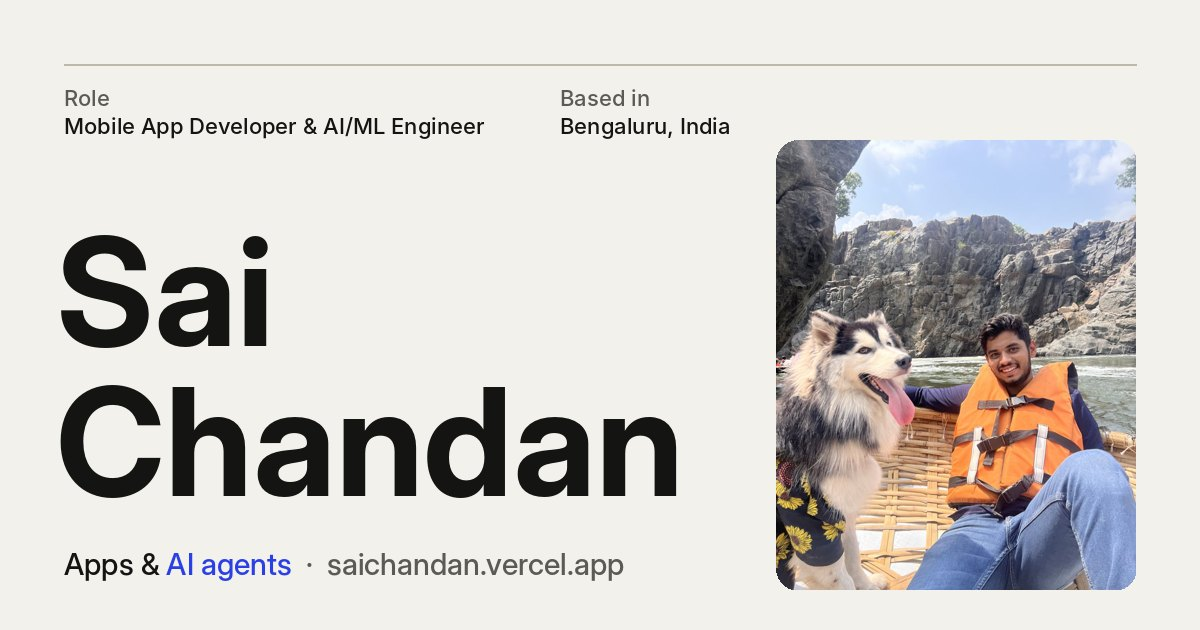
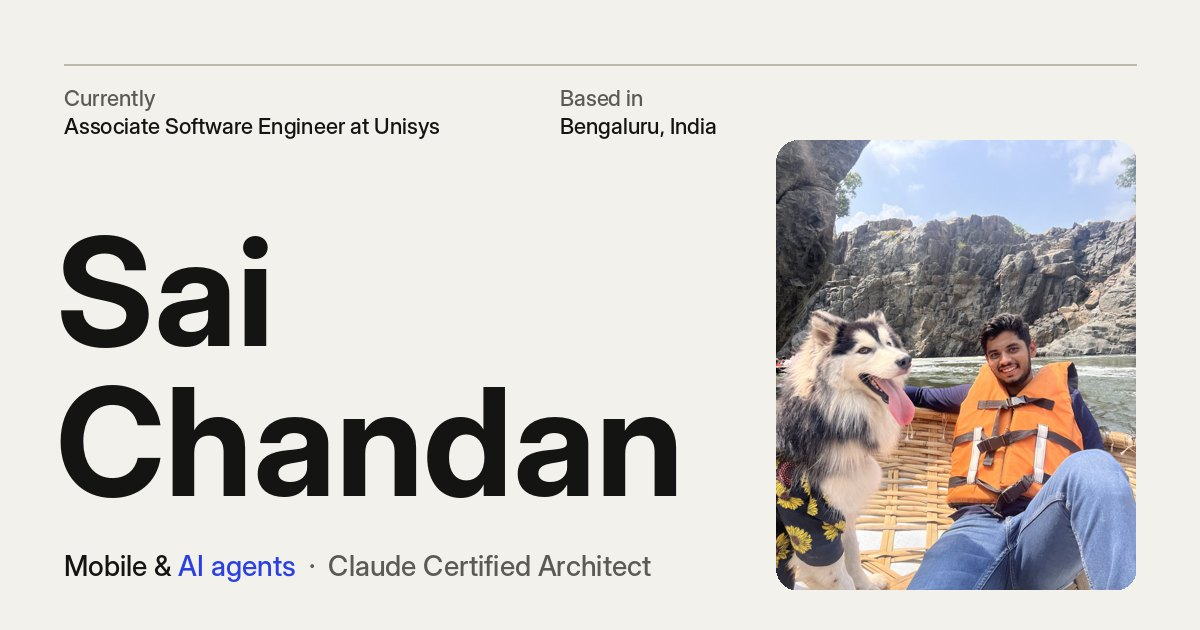
Add Experience section and sync profile with LinkedIn
- New Experience section: Unisys timeline (Student Technical Intern
  Oct 2024 – Aug 2025 → Associate Software Engineer Aug 2025 – present),
  education (DSU 2021–2025, Narayana Junior College 2019–2021) and
  certifications led by Anthropic's Claude Certified Architect –
  Foundations + Early Adopter
- Tenure ("1 yr 3 mos") is computed live, inclusive like LinkedIn
- Timeline line draws itself as you scroll; current role dot pulses;
  featured certification cards tilt in 3D
- Hero, About, meta description, OG image and JSON-LD (worksFor,
  hasCredential, alumniOf) updated with the current role
- Nav, command palette and section numbering include Experience

Claude-Session: https://claude.ai/code/session_01UsTJvYrfNbm7zovdagCP9G

diff --git a/index.html b/index.html
@@ -3,8 +3,8 @@
 <head>
   <meta charset="UTF-8" />
   <meta name="viewport" content="width=device-width, initial-scale=1, viewport-fit=cover" />
-  <title>Sai Chandan — Mobile App Developer &amp; AI/ML Engineer</title>
-  <meta name="description" content="Sanda Reddy Sai Chandan — mobile app developer and AI/ML engineer in Bengaluru, India. React Native + Expo apps, generative AI, autonomous agents and Salesforce Agentforce." />
+  <title>Sai Chandan — Software Engineer, Mobile &amp; AI</title>
+  <meta name="description" content="Sanda Reddy Sai Chandan — Associate Software Engineer at Unisys and Claude Certified Architect in Bengaluru, India. Mobile apps with React Native + Expo, generative AI, autonomous agents and Salesforce Agentforce." />
   <meta name="author" content="Sanda Reddy Sai Chandan" />
   <meta name="color-scheme" content="light dark" />
   <meta name="theme-color" content="#f3f1ec" media="(prefers-color-scheme: light)" />
@@ -13,7 +13,7 @@
 
   <meta property="og:type" content="website" />
   <meta property="og:url" content="https://saichandan.vercel.app/" />
-  <meta property="og:title" content="Sai Chandan — Mobile App Developer & AI/ML Engineer" />
+  <meta property="og:title" content="Sai Chandan — Software Engineer at Unisys · Mobile &amp; AI" />
   <meta property="og:description" content="Mobile apps, generative AI and autonomous agents. If I do it twice, an agent should do it the third time." />
   <meta property="og:image" content="https://saichandan.vercel.app/assets/images/og.jpg" />
   <meta property="og:image:alt" content="Sai Chandan — Mobile App Developer and AI/ML Engineer" />
@@ -51,11 +51,19 @@
     "alternateName": "Sai Chandan",
     "url": "https://saichandan.vercel.app/",
     "image": "https://saichandan.vercel.app/assets/images/chandan-800.jpg",
-    "jobTitle": "Mobile App Developer & AI/ML Engineer",
+    "jobTitle": "Associate Software Engineer",
+    "worksFor": { "@type": "Organization", "name": "Unisys" },
     "email": "mailto:sanda.rsc@icloud.com",
     "address": { "@type": "PostalAddress", "addressLocality": "Bengaluru", "addressCountry": "IN" },
-    "alumniOf": { "@type": "CollegeOrUniversity", "name": "Dayananda Sagar University" },
-    "knowsAbout": ["React Native", "Expo", "Generative AI", "Large Language Models", "AI Agents", "Salesforce Agentforce", "Python", "TypeScript"],
+    "alumniOf": [
+      { "@type": "CollegeOrUniversity", "name": "Dayananda Sagar University" },
+      { "@type": "EducationalOrganization", "name": "Narayana Junior College, Kadapa" }
+    ],
+    "hasCredential": [
+      { "@type": "EducationalOccupationalCredential", "name": "Claude Certified Architect – Foundations", "credentialCategory": "certification", "recognizedBy": { "@type": "Organization", "name": "Anthropic" } },
+      { "@type": "EducationalOccupationalCredential", "name": "Claude Certified Architect – Foundations Early Adopter", "credentialCategory": "certification", "recognizedBy": { "@type": "Organization", "name": "Anthropic" } }
+    ],
+    "knowsAbout": ["Anthropic Claude", "Claude Agent SDK", "React Native", "Expo", "Generative AI", "Large Language Models", "AI Agents", "Salesforce Agentforce", "Python", "TypeScript"],
     "sameAs": [
       "https://github.com/saichandan181",
       "https://linkedin.com/in/reddy-sai-chandan-851102300",
@@ -106,6 +114,7 @@
       <nav class="site-nav" id="site-nav" aria-label="Primary">
         <ul role="list">
           <li><a href="#about">About</a></li>
+          <li><a href="#experience">Experience</a></li>
           <li><a href="#expertise">Expertise</a></li>
           <li><a href="#work">Work</a></li>
           <li><a href="#now">Now</a></li>
@@ -138,9 +147,9 @@
     <section class="hero" aria-labelledby="hero-title">
       <div class="container hero-inner" data-hero>
         <dl class="hero-meta">
-          <div><dt>Role</dt><dd>Mobile App Developer<br />&amp; AI/ML Engineer</dd></div>
+          <div><dt>Currently</dt><dd>Associate Software Engineer<br />at Unisys</dd></div>
           <div><dt>Based in</dt><dd>Bengaluru, India<br /><time class="tnum" data-clock>IST</time></dd></div>
-          <div><dt>Focus</dt><dd>React Native · GenAI<br />Agents · Salesforce</dd></div>
+          <div><dt>Focus</dt><dd>Mobile · GenAI · Agents<br />Salesforce</dd></div>
           <div><dt>Status</dt><dd><span class="status-dot" aria-hidden="true"></span>Open to collaborations</dd></div>
         </dl>
 
@@ -152,8 +161,9 @@
               I build mobile apps and <em>AI agents</em> that do the boring part — so people don’t have to.
             </p>
             <p class="hero-lede">
-              Engineer specialising in AI &amp; ML. I ship cross-platform apps with React&nbsp;Native&nbsp;+&nbsp;Expo,
-              build generative-AI products, and wire autonomous agents into platforms like Salesforce.
+              Associate Software Engineer at Unisys and a Claude Certified Architect. I ship cross-platform apps
+              with React&nbsp;Native&nbsp;+&nbsp;Expo, build generative-AI products, and wire autonomous agents
+              into platforms like Salesforce.
             </p>
             <div class="hero-ctas">
               <a class="btn btn-primary" href="#work" data-magnetic>
@@ -201,8 +211,8 @@
 
         <div class="split-main">
           <p class="about-lead" data-highlight>
-            I’m Sanda Reddy Sai Chandan, a computer science engineer specialising in AI and ML.
-            I ship cross-platform mobile apps with React Native and Expo, build generative-AI products on
+            I’m Sanda Reddy Sai Chandan, an Associate Software Engineer at Unisys in Bengaluru with a degree
+            in computer science, specialising in AI and ML. I ship cross-platform mobile apps with React Native and Expo, build generative-AI products on
             multimodal models, and design multi-agent systems that plan, act and verify their own work.
             I also engineer on Salesforce — Agentforce, Apex and Flow — without blowing up governor limits.
           </p>
@@ -213,14 +223,6 @@
           </blockquote>
 
           <dl class="facts">
-            <div class="fact reveal">
-              <dt>Education</dt>
-              <dd><strong>Dayananda Sagar University</strong><br />B.E. Computer Science (AI &amp; ML), 2021 – 2025</dd>
-            </div>
-            <div class="fact reveal">
-              <dt>Certifications</dt>
-              <dd>ServiceNow Certified System Administrator<br />JavaScript — HackerRank<br />Machine Learning with Python — Great Learning</dd>
-            </div>
             <div class="fact reveal">
               <dt>Off the keyboard</dt>
               <dd>Badminton, cricket, travel and very good dogs.</dd>
@@ -238,11 +240,91 @@
       </div>
     </section>
 
+    <!-- ================= EXPERIENCE ================= -->
+    <section class="section section--alt" id="experience" aria-labelledby="experience-title">
+      <div class="container split">
+        <div class="split-side"><div class="split-side-inner">
+          <p class="section-index"><span aria-hidden="true">(02)</span> Experience</p>
+          <h2 id="experience-title" class="section-title" data-split-words>From intern to <em>engineer.</em></h2>
+          <p class="side-note reveal"><span data-tenure data-since="2024-10">2 yrs 1 mo</span> at Unisys — joined as a student technical intern, stayed on full-time.</p>
+        </div></div>
+
+        <div class="split-main">
+          <div class="xp-group">
+            <header class="xp-head reveal">
+              <h3>Unisys</h3>
+              <p>Bengaluru, Karnataka, India · <span data-tenure data-since="2024-10">2 yrs 1 mo</span></p>
+            </header>
+            <ol class="timeline" role="list" data-timeline>
+              <li class="role is-current reveal">
+                <span class="role-dot" aria-hidden="true"></span>
+                <p class="role-when"><time datetime="2025-08">Aug 2025</time> – Present<br /><span data-tenure data-since="2025-08">1 yr 3 mos</span></p>
+                <div class="role-body">
+                  <h4>Associate Software Engineer <span class="pill">Current</span></h4>
+                  <ul class="role-tags" role="list"><li>Full-time</li><li>Hybrid</li></ul>
+                </div>
+              </li>
+              <li class="role reveal">
+                <span class="role-dot" aria-hidden="true"></span>
+                <p class="role-when"><time datetime="2024-10">Oct 2024</time> – <time datetime="2025-08">Aug 2025</time><br /><span>11 mos</span></p>
+                <div class="role-body">
+                  <h4>Student Technical Intern</h4>
+                  <p>Cloud Application &amp; Infrastructure team — my first hands-on experience with enterprise cloud technologies.</p>
+                  <ul class="role-tags" role="list"><li>Internship</li><li>On-site</li></ul>
+                </div>
+              </li>
+            </ol>
+          </div>
+
+          <div class="xp-group">
+            <header class="xp-head reveal"><h3>Education</h3></header>
+            <ol class="timeline" role="list" data-timeline>
+              <li class="role reveal">
+                <span class="role-dot" aria-hidden="true"></span>
+                <p class="role-when"><time datetime="2021">2021</time> – <time datetime="2025">2025</time></p>
+                <div class="role-body">
+                  <h4>Dayananda Sagar University</h4>
+                  <p>B.E. Computer Science &amp; Engineering — Artificial Intelligence &amp; Machine Learning. Graduated 2025.</p>
+                </div>
+              </li>
+              <li class="role reveal">
+                <span class="role-dot" aria-hidden="true"></span>
+                <p class="role-when"><time datetime="2019-06">Jun 2019</time> – <time datetime="2021-05">May 2021</time></p>
+                <div class="role-body">
+                  <h4>Narayana Junior College, Kadapa</h4>
+                  <p>Intermediate — Mathematics, Physics &amp; Chemistry (MPC).</p>
+                </div>
+              </li>
+            </ol>
+          </div>
+
+          <div class="xp-group">
+            <header class="xp-head reveal"><h3>Certifications</h3></header>
+            <ul class="certs" role="list">
+              <li class="cert cert--feature reveal" data-tilt>
+                <p class="cert-issuer">Anthropic · Apr 2026</p>
+                <h4>Claude Certified Architect — Foundations</h4>
+                <p class="cert-id">Credential ID <span class="tnum">yrxyomizi79c</span></p>
+              </li>
+              <li class="cert cert--feature reveal" data-tilt>
+                <p class="cert-issuer">Anthropic · Apr 2026</p>
+                <h4>Claude Certified Architect — Foundations <em>Early Adopter</em></h4>
+                <p class="cert-id">Credential ID <span class="tnum">5xfrktd7ftnk</span></p>
+              </li>
+              <li class="cert reveal"><p class="cert-issuer">ServiceNow</p><h4>Certified System Administrator</h4></li>
+              <li class="cert reveal"><p class="cert-issuer">HackerRank</p><h4>JavaScript</h4></li>
+              <li class="cert reveal"><p class="cert-issuer">Great Learning</p><h4>Machine Learning with Python</h4></li>
+            </ul>
+          </div>
+        </div>
+      </div>
+    </section>
+
     <!-- ================= EXPERTISE ================= -->
-    <section class="section section--alt" id="expertise" aria-labelledby="expertise-title">
+    <section class="section" id="expertise" aria-labelledby="expertise-title">
       <div class="container">
         <header class="section-head">
-          <p class="section-index"><span aria-hidden="true">(02)</span> Expertise</p>
+          <p class="section-index"><span aria-hidden="true">(03)</span> Expertise</p>
           <h2 id="expertise-title" class="section-title" data-split-words>Four things I do <em>well.</em></h2>
         </header>
 
@@ -289,11 +371,11 @@
     </section>
 
     <!-- ================= WORK ================= -->
-    <section class="section" id="work" aria-labelledby="work-title">
+    <section class="section section--alt" id="work" aria-labelledby="work-title">
       <div class="container">
         <header class="section-head section-head--row">
           <div>
-            <p class="section-index"><span aria-hidden="true">(03)</span> Selected work</p>
+            <p class="section-index"><span aria-hidden="true">(04)</span> Selected work</p>
             <h2 id="work-title" class="section-title" data-split-words>Agents, AI apps and the <em>APIs</em> behind them.</h2>
           </div>
           <a class="link-underline reveal" href="https://github.com/saichandan181?tab=repositories" target="_blank" rel="noopener noreferrer">
@@ -461,10 +543,10 @@
     </section>
 
     <!-- ================= NOW ================= -->
-    <section class="section section--alt" id="now" aria-labelledby="now-title">
+    <section class="section" id="now" aria-labelledby="now-title">
       <div class="container split">
         <div class="split-side"><div class="split-side-inner">
-          <p class="section-index"><span aria-hidden="true">(04)</span> Now</p>
+          <p class="section-index"><span aria-hidden="true">(05)</span> Now</p>
           <h2 id="now-title" class="section-title" data-split-words>Currently <em>learning.</em></h2>
         </div></div>
 
@@ -490,9 +572,9 @@
     </section>
 
     <!-- ================= CONTACT ================= -->
-    <section class="section contact" id="contact" aria-labelledby="contact-title">
+    <section class="section section--alt contact" id="contact" aria-labelledby="contact-title">
       <div class="container">
-        <p class="section-index"><span aria-hidden="true">(05)</span> Contact</p>
+        <p class="section-index"><span aria-hidden="true">(06)</span> Contact</p>
         <h2 id="contact-title" class="contact-title" data-zoom>Let’s build something <em>worth automating.</em></h2>
 
         <div class="contact-grid">

diff --git a/assets/css/styles.css b/assets/css/styles.css
@@ -542,6 +542,79 @@ svg .fill { fill: currentColor; stroke: none; }
 .joke-out:empty { display: none; }
 @media (max-width: 560px) { .fact { grid-template-columns: 1fr; gap: 4px; } }
 
+/* ---------- Experience ---------- */
+.side-note { margin-top: 24px; max-width: 30ch; color: var(--muted); }
+.side-note span { color: var(--ink); font-weight: 600; }
+.xp-group + .xp-group { margin-top: clamp(56px, 7vw, 88px); }
+.xp-head {
+  display: flex; align-items: baseline; justify-content: space-between; gap: 8px 24px; flex-wrap: wrap;
+  padding-bottom: 18px;
+  border-bottom: 1px solid var(--line-strong);
+}
+.xp-head h3 { font-size: clamp(1.75rem, 1.3rem + 1.6vw, 2.6rem); letter-spacing: -0.045em; }
+.xp-head p { color: var(--muted); font-size: 0.9375rem; }
+
+/* vertical line that draws itself as you scroll (--tl: 0 → 1) */
+.timeline { position: relative; --tl: 1; }
+.timeline::before, .timeline::after {
+  content: ""; position: absolute; left: 5px; top: 34px; bottom: 34px; width: 1px;
+}
+.timeline::before { background: var(--line); }
+.timeline::after { background: var(--accent); transform-origin: top; transform: scaleY(var(--tl)); }
+.role {
+  position: relative;
+  display: grid;
+  grid-template-columns: minmax(150px, 0.8fr) minmax(0, 2fr);
+  gap: 8px 24px;
+  padding: 26px 0 26px 36px;
+  border-bottom: 1px solid var(--line);
+}
+.role-dot {
+  position: absolute; left: 0; top: 33px; z-index: 1;
+  width: 11px; height: 11px; border-radius: 50%;
+  background: var(--bg-alt); border: 2px solid var(--accent);
+}
+.role.is-current .role-dot { background: var(--accent); box-shadow: 0 0 0 0 color-mix(in srgb, var(--accent) 45%, transparent); animation: role-pulse 2.4s var(--ease) infinite; }
+@keyframes role-pulse { 70% { box-shadow: 0 0 0 9px color-mix(in srgb, var(--accent) 0%, transparent); } 100% { box-shadow: 0 0 0 0 transparent; } }
+.role-when { color: var(--muted); font-size: 0.9375rem; line-height: 1.5; padding-top: 4px; font-variant-numeric: tabular-nums; }
+.role-when time:first-child { color: var(--ink); font-weight: 500; }
+.role-body h4 { font-size: clamp(1.3rem, 1.1rem + 0.8vw, 1.75rem); letter-spacing: -0.035em; display: flex; align-items: center; gap: 12px; flex-wrap: wrap; }
+.role-body p { margin-top: 8px; color: var(--muted); max-width: 56ch; }
+.pill {
+  padding: 3px 10px; border-radius: 999px;
+  background: var(--accent); color: var(--on-accent);
+  font-size: 0.75rem; font-weight: 600; letter-spacing: 0;
+}
+.role-tags { display: flex; flex-wrap: wrap; gap: 6px; margin-top: 12px; }
+.role-tags li { padding: 3px 10px; border: 1px solid var(--line-strong); border-radius: 999px; font-size: 0.8125rem; color: var(--muted); }
+@media (max-width: 640px) { .role { grid-template-columns: 1fr; } }
+
+.certs { display: grid; grid-template-columns: repeat(2, minmax(0, 1fr)); gap: 12px; margin-top: 20px; }
+.cert {
+  display: flex; flex-direction: column; gap: 6px;
+  padding: 18px 20px;
+  border: 1px solid var(--line);
+  border-radius: var(--radius-sm, 12px);
+  background: var(--surface);
+}
+.cert h4 { font-size: 1.0625rem; font-weight: 600; letter-spacing: -0.015em; line-height: 1.3; }
+.cert h4 em { font-family: var(--font-serif); font-style: italic; font-weight: 400; font-size: 1.12em; color: var(--accent); }
+.cert-issuer { color: var(--muted); font-size: 0.8125rem; }
+.cert-id { margin-top: auto; padding-top: 8px; color: var(--muted); font-size: 0.75rem; }
+.cert-id span { font-family: var(--font-mono); color: var(--ink); }
+.cert--feature {
+  padding: 24px;
+  border-color: color-mix(in srgb, var(--accent) 40%, var(--line));
+  transform: perspective(900px) rotateX(var(--rx, 0deg)) rotateY(var(--ry, 0deg));
+  transition: transform 0.6s var(--ease), box-shadow 0.5s var(--ease), opacity 0.9s var(--ease);
+}
+.cert--feature.is-tilting { transition: transform 0.12s linear, box-shadow 0.5s var(--ease), opacity 0.9s var(--ease); }
+.cert--feature:hover { box-shadow: var(--shadow-lg); }
+.cert--feature .cert-issuer { color: var(--accent); font-weight: 600; }
+.cert--feature h4 { font-size: 1.25rem; }
+.motion-ok .cert--feature.reveal:not(.is-visible) { transform: translateY(28px); }
+@media (max-width: 560px) { .certs { grid-template-columns: 1fr; } }
+
 /* ---------- Expertise ---------- */
 .expertise {
   display: grid;
@@ -894,6 +967,7 @@ svg .fill { fill: currentColor; stroke: none; }
   .btn, .icon-btn, .exp-card article, .work-card, .palette, .contact-orb, .faq summary::after { border: 1px solid CanvasText; }
   .palette-option[aria-selected="true"] { outline: 2px solid Highlight; }
   .work-card::after, .portrait-glare { display: none; }
+  .cert, .pill { border: 1px solid CanvasText; }
 }
 
 /* ---------- Print ---------- */
@@ -907,3 +981,6 @@ svg .fill { fill: currentColor; stroke: none; }
   .section { padding-block: 32px; }
   a[href^="http"]::after { content: " (" attr(href) ")"; font-size: 0.8em; }
 }
+
+/* keep cert tilt working after its reveal completes */
+.motion-ok .cert--feature.reveal.is-visible { transform: perspective(900px) rotateX(var(--rx, 0deg)) rotateY(var(--ry, 0deg)); }

diff --git a/assets/js/main.js b/assets/js/main.js
@@ -313,6 +313,7 @@
   const rises = $$("[data-rise]");
   const zoomEl = $("[data-zoom]");
   const workItems = $$(".work-item");
+  const timelines = $$("[data-timeline]");
   const stickyMQ = window.matchMedia("(min-width: 901px)");
 
   const clearScrollFx = () => {
@@ -321,6 +322,7 @@
     workCards.forEach((c) => { c.style.removeProperty("--s"); c.style.removeProperty("--r"); c.style.removeProperty("--dim"); });
     portrait?.style.removeProperty("--py");
     highlightWords.forEach((w) => w.classList.add("on"));
+    timelines.forEach((t) => t.style.removeProperty("--tl"));
   };
 
   let scheduled = false;
@@ -373,6 +375,12 @@
       const n = Math.round(q * highlightWords.length);
       highlightWords.forEach((w, i) => w.classList.toggle("on", i < n));
     }
+
+    // Experience: the timeline line draws down as you read
+    timelines.forEach((t) => {
+      const r = t.getBoundingClientRect();
+      t.style.setProperty("--tl", clamp((vh * 0.75 - r.top) / (r.height || 1)).toFixed(3));
+    });
 
     // Expertise: cards rise up from a reclined 3D angle
     rises.forEach((card, i) => {
@@ -463,6 +471,19 @@
     tick();
     setInterval(tick, 30000);
   }
+  // "1 yr 3 mos" — counted inclusively, the way LinkedIn does, so it stays current
+  $$("[data-tenure]").forEach((el) => {
+    const [y, m] = el.dataset.since.split("-").map(Number);
+    const now = new Date();
+    const months = (now.getFullYear() - y) * 12 + (now.getMonth() + 1 - m) + 1;
+    if (!(months > 0)) return;
+    const yrs = Math.floor(months / 12), mos = months % 12;
+    const parts = [];
+    if (yrs) parts.push(`${yrs} yr${yrs > 1 ? "s" : ""}`);
+    if (mos) parts.push(`${mos} mo${mos > 1 ? "s" : ""}`);
+    el.textContent = parts.join(" ");
+  });
+
   const yearEl = $("#year");
   if (yearEl) yearEl.textContent = String(new Date().getFullYear());
 
@@ -579,6 +600,7 @@
 
   const ITEMS = [
     { group: "Go to", label: "About", icon: "i-arrow-right", run: go("#about"), keys: "who bio education" },
+    { group: "Go to", label: "Experience", icon: "i-arrow-right", run: go("#experience"), keys: "unisys job work history education certifications claude certified architect resume" },
     { group: "Go to", label: "Expertise", icon: "i-arrow-right", run: go("#expertise"), keys: "skills stack tech tools mobile ai salesforce" },
     { group: "Go to", label: "Selected work", icon: "i-arrow-right", run: go("#work"), keys: "projects portfolio" },
     { group: "Go to", label: "Now", icon: "i-arrow-right", run: go("#now"), keys: "learning ask" },
